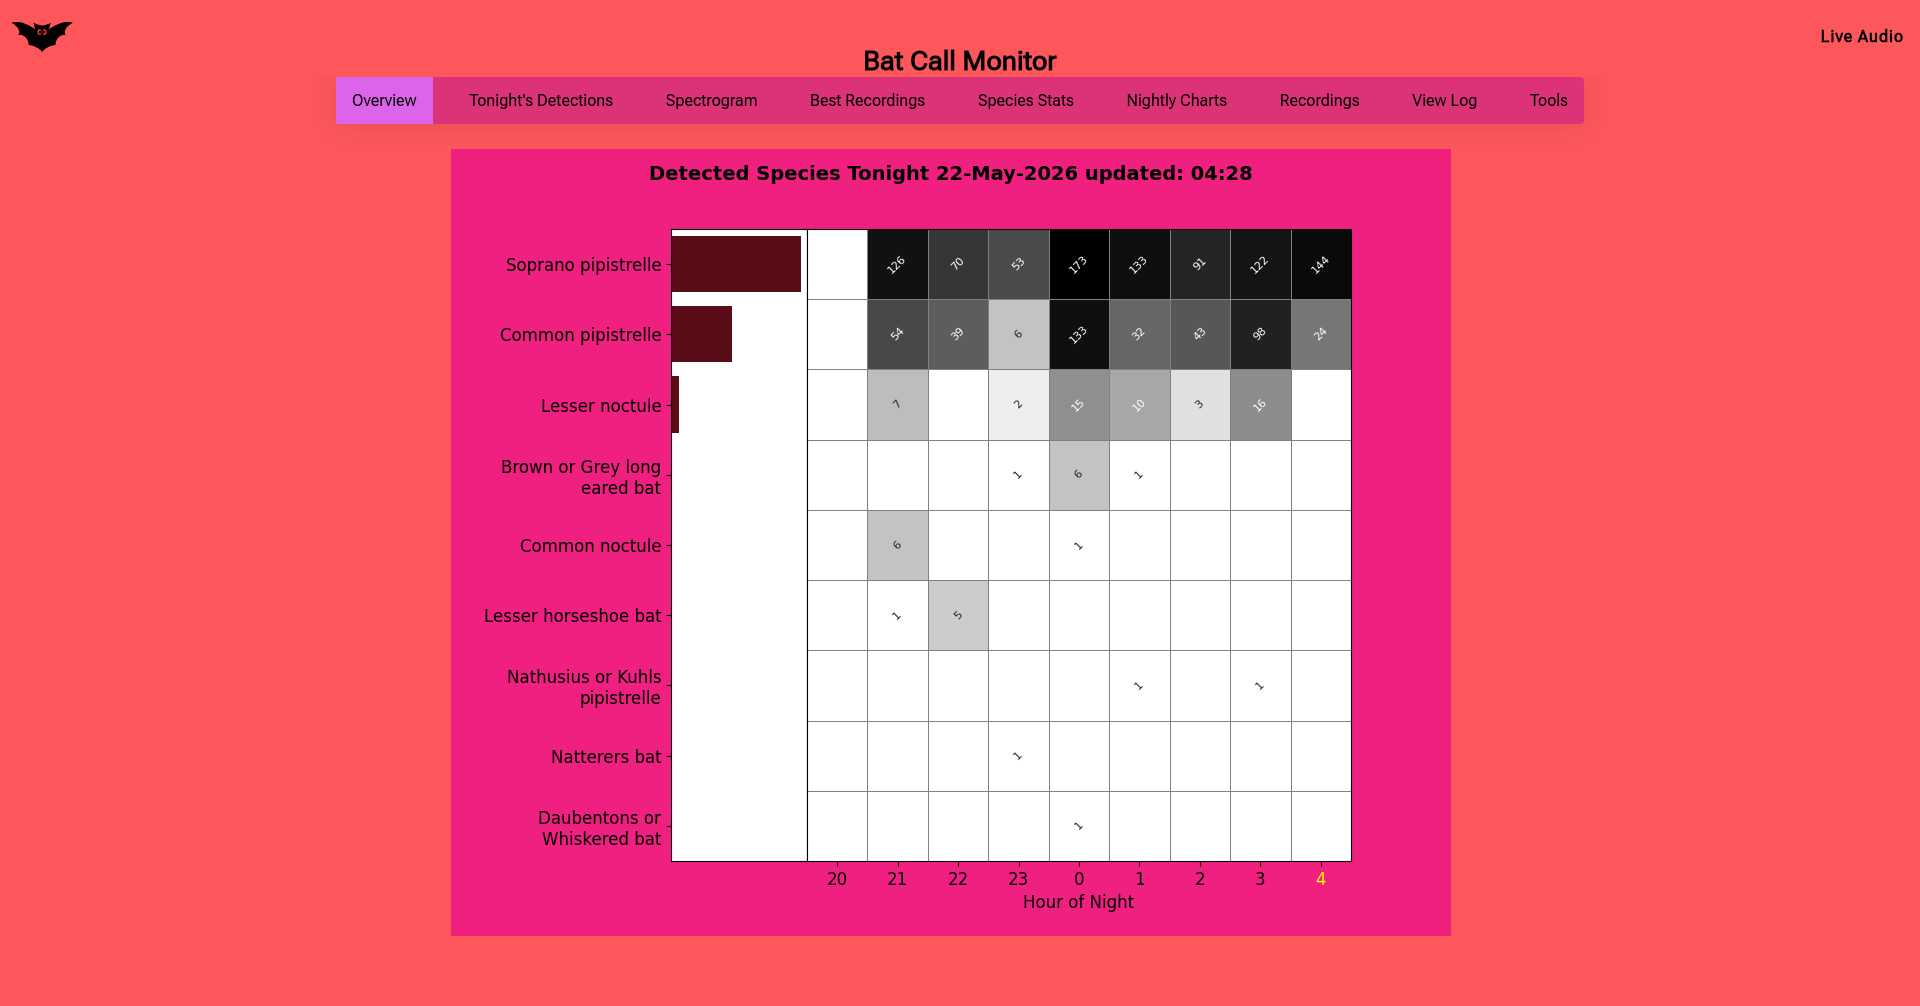
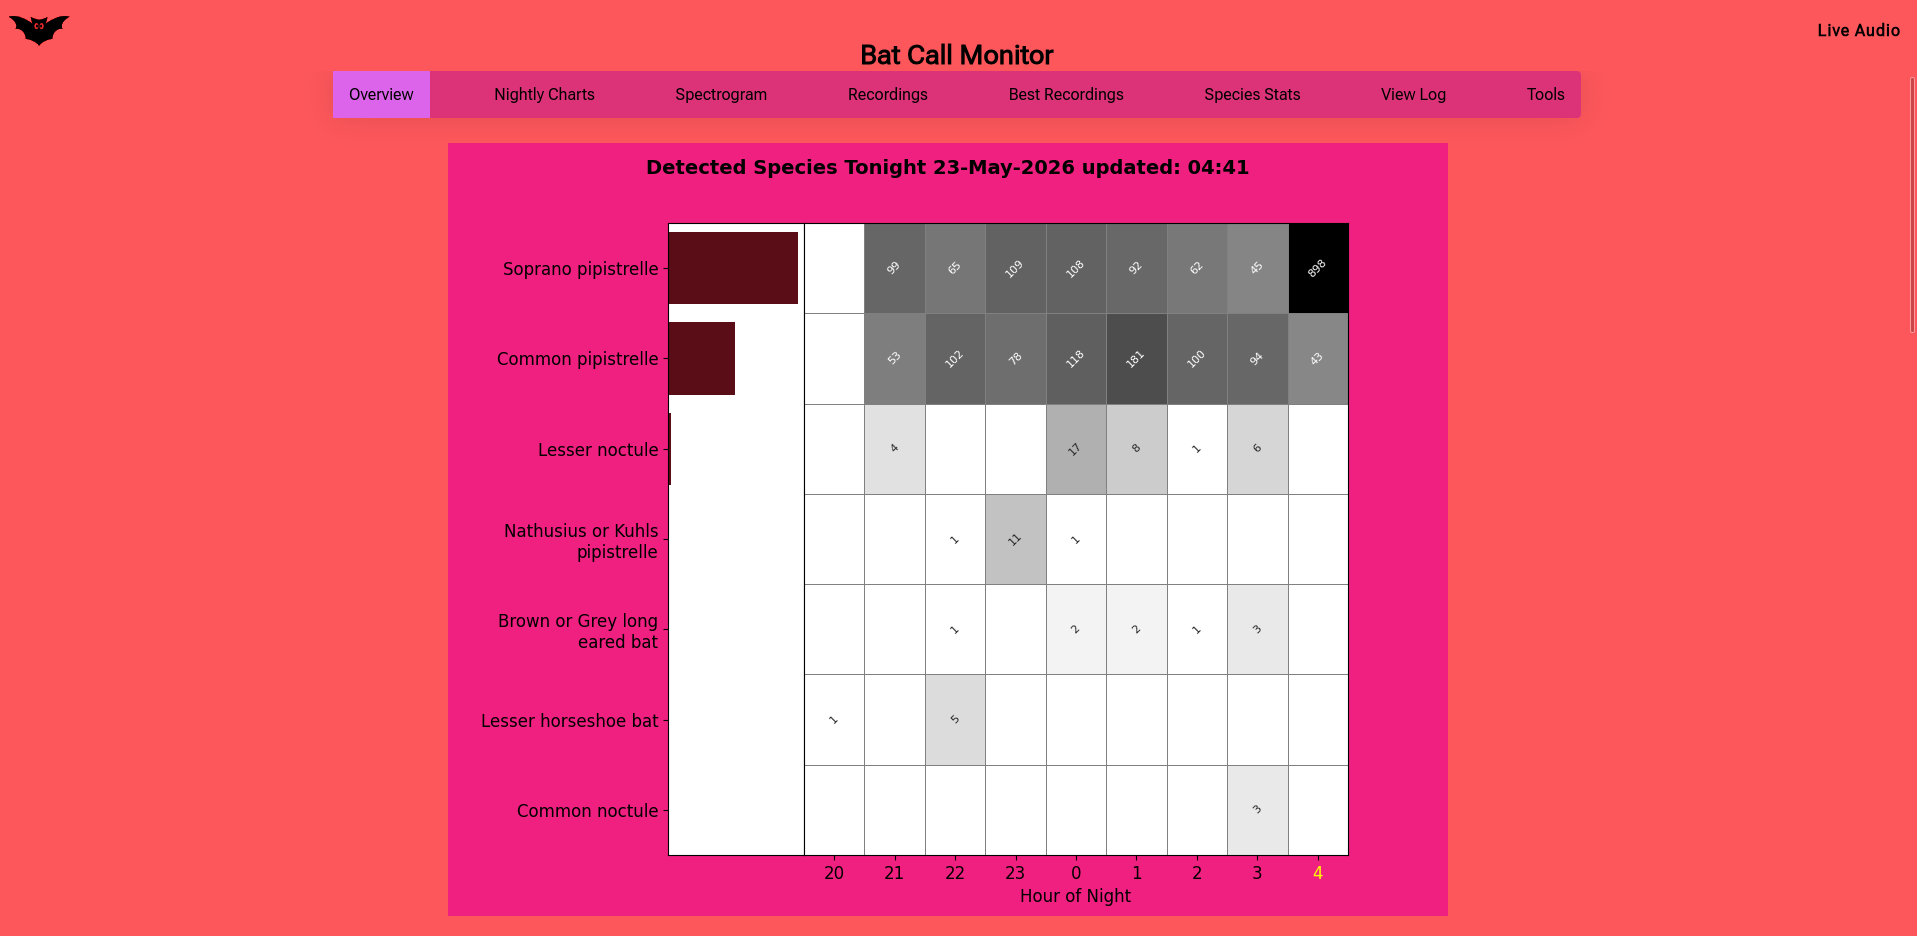
misc updates

diff --git a/scripts/overview.php b/scripts/overview.php
@@ -24,9 +24,6 @@ $user = shell_exec("awk -F: '/1000/{print $1}' /etc/passwd");
 $home = shell_exec("awk -F: '/1000/{print $6}' /etc/passwd");
 $home = trim($home);
 
-//$statement2 = $db->prepare('SELECT COUNT(*) FROM detections WHERE Date == DATE(\'now\', \'localtime\')');
-
-//**********AI
 
 $currentHour = intval(date('G'));
 
@@ -55,7 +52,6 @@ AND
 ) = '$nightDate'
 ");
 
-//*********
 
 if($statement2 == False) {
   echo "Database is busy";
@@ -277,9 +273,7 @@ if($statement == False) {
 $result = $statement->execute();
 $totalcount = $result->fetchArray(SQLITE3_ASSOC);
 
-//$statement3 = $db->prepare('SELECT COUNT(*) FROM detections WHERE Date == Date(\'now\', \'localtime\') AND TIME >= TIME(\'now\', \'localtime\', \'-1 hour\')');
 
-//****AI
 $statement3 = $db->prepare("
 SELECT COUNT(*)
 FROM detections
@@ -287,7 +281,6 @@ WHERE DATETIME(Date || ' ' || Time)
 >= DATETIME('now', 'localtime', '-1 hour')
 ");
 
-//***
 
 
 
@@ -298,9 +291,6 @@ if($statement3 == False) {
 $result3 = $statement3->execute();
 $hourcount = $result3->fetchArray(SQLITE3_ASSOC);
 
-//$statement5 = $db->prepare('SELECT COUNT(DISTINCT(Com_Name)) FROM detections WHERE Date == Date(\'now\',\'localtime\')');
-
-//*****AI
 $statement5 = $db->prepare("
 SELECT COUNT(DISTINCT(Com_Name))
 FROM detections
@@ -320,7 +310,6 @@ AND
 ) = '$nightDate'
 ");
 
-//*****
 if($statement5 == False) {
   echo "Database is busy";
   header("refresh: 0;");

diff --git a/scripts/advanced.php b/scripts/advanced.php
@@ -573,7 +573,8 @@ if (file_exists('./scripts/thisrun.txt')) {
       <input type="checkbox" name="bat_timer" <?php if($newconfig['BAT_TIMER'] ) { echo "checked"; };?> ><br>
       <p> Stops detection during the day (detects between dusk and dawn).</p>
       <label for="bat_sun_timer">Set dusk and dawn automatically from lat/lon </label>
-      <input type="checkbox" name="bat_sun_timer" <?php if($newconfig['BAT_SUNTIMER'] ) { echo "checked"; };?> ><br>
+      <input type="checkbox" name="bat_sun_timer" 
+      <?php if($newconfig['BAT_SUNTIMER'] ) { echo "checked"; };?> disabled><br>
       <p> Must set these before on basic settings.</p>
 
       <label for="bird_day">Switch to bird detection during the day. </label>

diff --git a/scripts/play.php b/scripts/play.php
@@ -1,8 +1,8 @@
 <?php
 
 /* Prevent XSS input */
-$_GET   = filter_input_array(INPUT_GET, FILTER_SANITIZE_STRING);
-$_POST  = filter_input_array(INPUT_POST, FILTER_SANITIZE_STRING);
+$_GET   = filter_input_array(INPUT_GET, FILTER_UNSAFE_RAW);
+$_POST  = filter_input_array(INPUT_POST, FILTER_UNSAFE_RAW);
 
 error_reporting(E_ERROR);
 ini_set('display_errors',1);

diff --git a/scripts/history.php b/scripts/history.php
@@ -1,8 +1,8 @@
 <?php
 
 /* Prevent XSS input */
-$_GET   = filter_input_array(INPUT_GET, FILTER_SANITIZE_STRING);
-$_POST  = filter_input_array(INPUT_POST, FILTER_SANITIZE_STRING);
+$_GET   = filter_input_array(INPUT_GET, FILTER_UNSAFE_RAW);
+$_POST  = filter_input_array(INPUT_POST, FILTER_UNSAFE_RAW);
 
 error_reporting(E_ALL);
 ini_set('display_errors',1);
